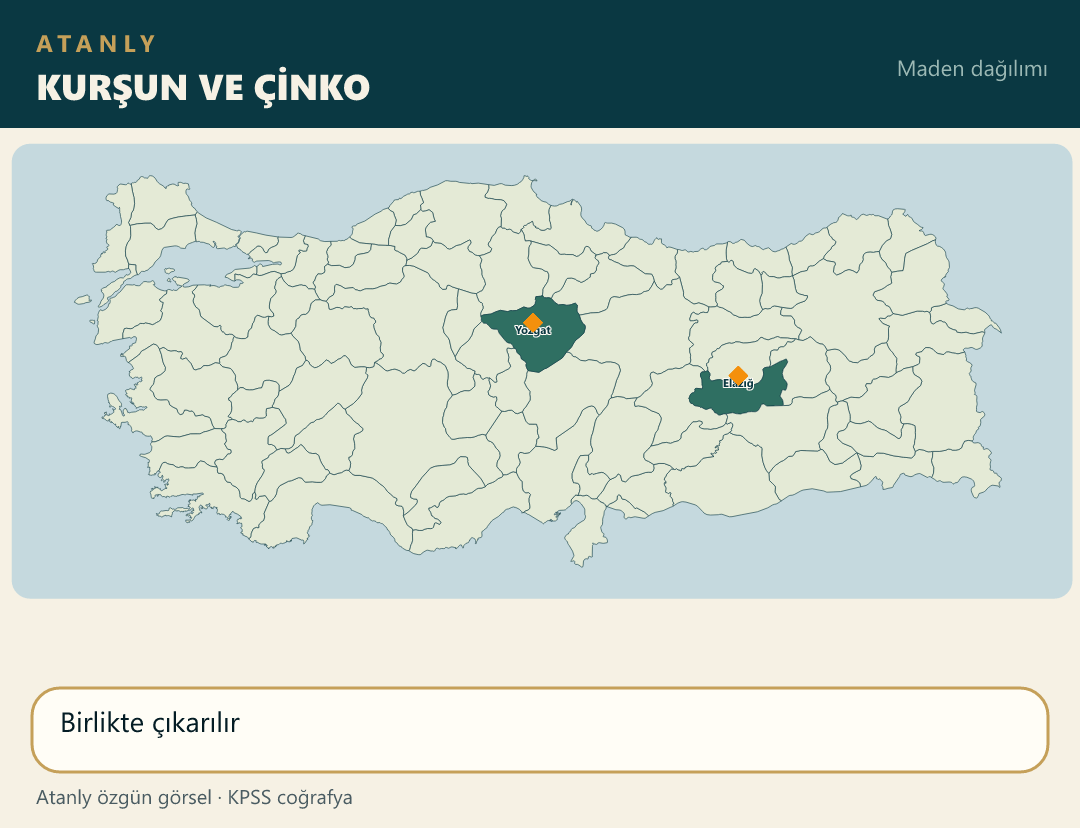
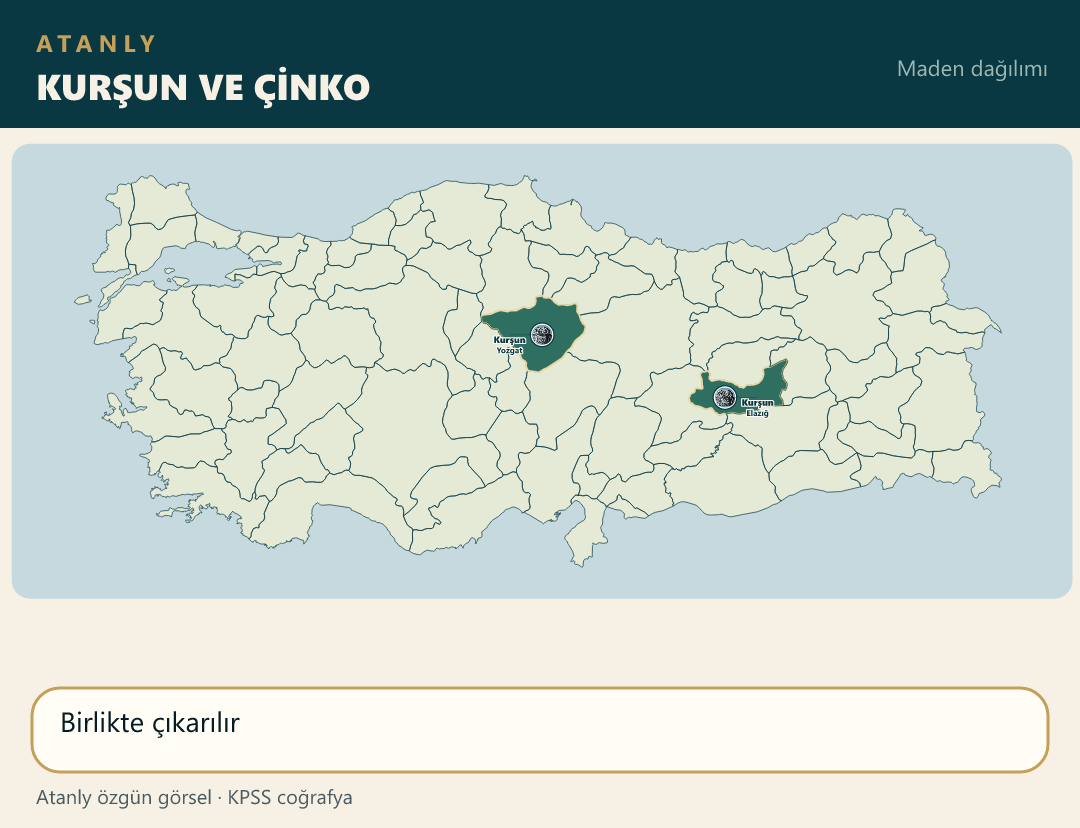
Place the lead ore photo on Yozgat and Elazığ land-center pins.

diff --git a/scripts/build-atanly-maps.js b/scripts/build-atanly-maps.js
@@ -1082,7 +1082,11 @@ function main() {
         { file: "maden_manganez.png", title: "MANGANEZ", iller: ["Zonguldak"],
             yazilar: ["Ereğli"],
             facts: ["Çeliğe sertlik verir", "Ereğli"] },
-        { file: "maden_kursun.png", title: "KURŞUN VE ÇİNKO", iller: ["Yozgat", "Elazığ"],
+        { file: "maden_kursun.png", title: "KURŞUN VE ÇİNKO", urun: "Kurşun",
+            noktalar: [
+                { il: "Yozgat", ldx: -32, ldy: 8 },
+                { il: "Elazığ", ldx: 32, ldy: 8 }
+            ],
             facts: ["Birlikte çıkarılır"] },
         { file: "maden_oltu.png", title: "OLTU TAŞI", iller: ["Erzurum"],
             yazilar: ["Oltu"],

diff --git a/notlar/cografya-21-not.js b/notlar/cografya-21-not.js
@@ -2,7 +2,7 @@
 (function () {
     function harita(src, alt) {
         return '<div class="mt-4 overflow-hidden rounded-xl border border-blue-200 dark:border-blue-700/50 bg-white dark:bg-slate-800 p-2">' +
-            '<img src="./src/img/' + src + '?v=26" alt="' + alt + ' Haritası" class="w-full h-auto rounded-lg object-contain" loading="lazy">' +
+            '<img src="./src/img/' + src + '?v=27" alt="' + alt + ' Haritası" class="w-full h-auto rounded-lg object-contain" loading="lazy">' +
             "</div>";
     }
 

diff --git a/index.html b/index.html
@@ -119,7 +119,7 @@
     <script src="notlar/cografya-18-not.js?v=17"></script>
     <script src="notlar/cografya-19-not.js?v=25"></script>
     <script src="notlar/cografya-20-not.js?v=1"></script>
-    <script src="notlar/cografya-21-not.js?v=19"></script>
+    <script src="notlar/cografya-21-not.js?v=20"></script>
     <script src="notlar/cografya-22-not.js?v=1"></script>
     <script src="notlar/cografya-23-not.js?v=1"></script>
     <script src="notlar/cografya-24-not.js?v=1"></script>
